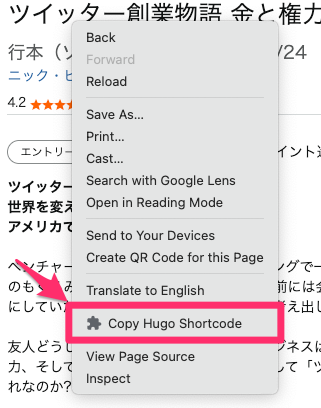
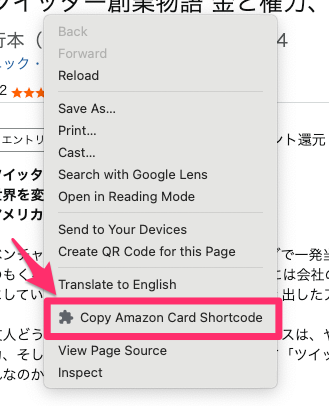
fix context menu title

Changed region(s): [[0.0, 0.0, 1.0, 0.9754], [0.8411, 0.3251, 1.0, 0.3842], [0.8411, 0.2365, 0.9034, 0.2956]]

diff --git a/extension/background.js b/extension/background.js
@@ -1,7 +1,7 @@
 chrome.runtime.onInstalled.addListener(() => {
   chrome.contextMenus.create({
     id: "copyAmazonShortcode",
-    title: "Copy Hugo Shortcode",
+    title: "Copy Amazon Card Shortcode",
     contexts: ["page"],
     documentUrlPatterns: ["https://www.amazon.co.jp/*"]
   });
